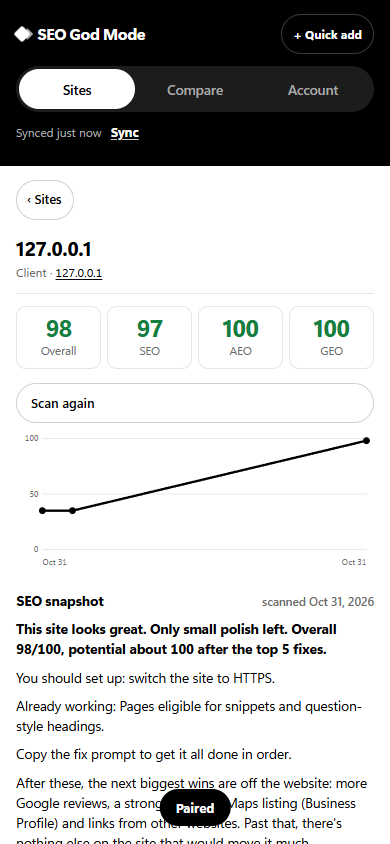
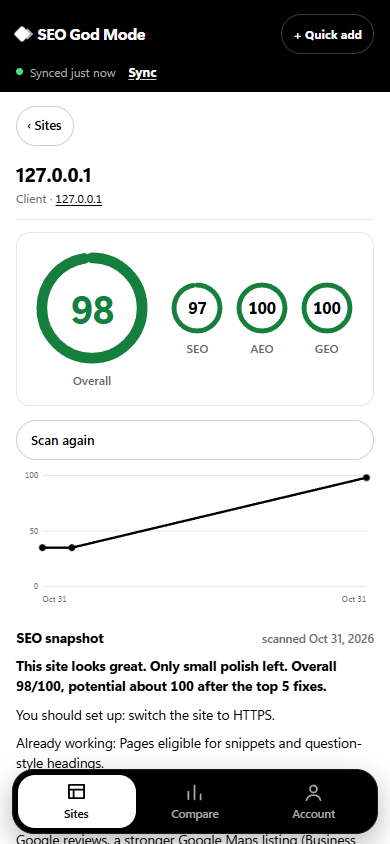
Phone app: new look and animations
Bottom tab bar with a sliding pill, a bold rate card, score rings that fill and count up, screens that
slide in by direction, self-drawing charts, an animated scan state, and sheet, toast and error motion.
Background syncs redraw without animating, and reduced-motion settings are respected.

diff --git a/mobile/src/app.js b/mobile/src/app.js
@@ -131,15 +131,16 @@ async function putData(keys) {
 
 // ------------------------------------------------------------------ UI helpers
 let toastT;
-function toast(t) { haptic("ok"); const el = $("toast"); el.textContent = t; el.classList.add("on"); clearTimeout(toastT); toastT = setTimeout(() => el.classList.remove("on"), 2200); }
-function notice(html) { if (html) haptic("warn"); const n = $("notice"); n.hidden = !html; n.innerHTML = html || ""; }
+function toast(t) { haptic("ok"); const el = $("toast"); el.textContent = t; el.classList.remove("on"); void el.offsetWidth; el.classList.add("on"); clearTimeout(toastT); toastT = setTimeout(() => el.classList.remove("on"), 2200); }
+function notice(html) { if (html) haptic("warn"); const n = $("notice"); n.hidden = !html; n.innerHTML = html || ""; n.classList.remove("shake"); if (html) { void n.offsetWidth; n.classList.add("shake"); } }
 async function copy(text, msg) { try { await navigator.clipboard.writeText(text); toast(msg); } catch { notice("Couldn't copy. Long-press the text below to copy it."); } }
 function paintStatus() {
   const el = $("status");
   if (!el || $("mode").hidden) return;
   const waiting = pendingCount();
-  if (S.local) { el.textContent = "Saved on this phone"; return; }
-  el.innerHTML = `${S.busy ? "Syncing…" : S.oldServer ? "Synced, except General sites (sync server needs its newest script)" : S.error === "notready" ? "Saved on this phone. Sync starts once the sync server is set up"
+  el.className = `url ${S.busy ? "busy" : S.local || !S.error && !S.oldServer ? "ok" : "wait"}`;
+  if (S.local) { el.innerHTML = `<i class="syncdot"></i>Saved on this phone`; return; }
+  el.innerHTML = `<i class="syncdot"></i>${S.busy ? "Syncing…" : S.oldServer ? "Synced, except General sites (sync server needs its newest script)" : S.error === "notready" ? "Saved on this phone. Sync starts once the sync server is set up"
     : S.error ? `Saved on this phone${waiting ? ` (${waiting} to send)` : ""}. Offline: ${esc(S.error)}` : S.lastSync ? `Synced ${ago(S.lastSync)}` : "Not synced yet"} <button class="linkish" id="syncbtn">Sync</button>`;
   $("syncbtn").onclick = () => pull({ quiet: false });
 }
@@ -254,7 +255,7 @@ async function scanSite(origin) {
   } catch (e) {
     if (!S.sites.has(origin)) S.lookup = { origin, scan: null };
     notice(esc(e.message || e));
-  } finally { S.scanning = null; render(); }
+  } finally { S.scanning = null; lastScreen = null; render(); }
 }
 
 function renderLookup(o) {
@@ -262,7 +263,7 @@ function renderLookup(o) {
   const failed = scan ? scan.results.filter((r) => r.ratio != null && r.ratio < 0.999 && r.cat !== "info").sort((a, b) => (b.gain || 0) - (a.gain || 0)) : [];
   $("view").innerHTML = `<nav class="crumb"><button class="back" id="back">‹ Sites</button></nav>
     <div class="hero"><div><b>${esc(hostOf(o))}</b><small>Not tracked · <a href="${esc(o)}" target="_blank" rel="noopener">${esc(o)}</a></small></div></div>
-    ${running ? `<div class="emptybox"><b>Rating the whole site…</b><p id="scanprog">${esc(hostOf(o))}: ${esc(S.scanning.text)}</p><p>Same crawl, checks and scores as the Chrome extension. Takes up to a minute.</p></div>`
+    ${running ? scanBox("Rating the whole site…", "scanprog", `${hostOf(o)}: ${S.scanning.text}`, "Same crawl, checks and scores as the Chrome extension. Takes up to a minute.")
       : scan ? `${scoreBoxes(scan.scores)}<h2 class="sec">SEO snapshot <small>${scan.pagesRated} pages, ${when(scan.page.scannedAt)}</small></h2><div class="summarytext">${summaryText(scan).split("\n").map((l) => `<p>${esc(l)}</p>`).join("")}</div>
         ${failed.length ? `<h2 class="sec">Top fixes <small>${failed.length}</small></h2><div class="list">${failed.slice(0, 6).map(fixRow).join("")}</div>` : ""}
         <div class="btns stack">${failed.length ? `<button id="copyfix">Copy fix prompt</button>` : ""}<button id="track" class="primary">Keep this site</button><button id="rescan">Scan again</button></div>`
@@ -282,16 +283,16 @@ function card(s) {
   const rivals = competitorsOf(s.origin).length;
   const of = s.competitorOf && S.sites.get(s.competitorOf);
   return `<div class="tcard"><button class="topen" data-open="${esc(s.origin)}"><div class="thead"><div><b>${esc(s.name)}</b><small>${last ? "Scanned " + when(last.t) : "Not scanned yet"} · ${s.keywords.length} keyword${s.keywords.length === 1 ? "" : "s"}${rivals ? ` · ${rivals} competitor${rivals === 1 ? "" : "s"}` : ""}${of ? ` · ${s.role === "general" ? "linked to" : "vs"} ${esc(of.name)}` : ""}</small></div>
-    <div class="tscore ${status(last?.overall)}">${last ? last.overall : "–"}${d ? `<i class="${d > 0 ? "up" : "down"}">${d > 0 ? "+" : ""}${d}</i>` : ""}</div></div>
+    <div class="tscore">${ring(last?.overall)}${d ? `<i class="${d > 0 ? "up" : "down"}">${d > 0 ? "+" : ""}${d}</i>` : ""}</div></div>
     ${h.length > 1 ? lineChart([{ name: "Overall", cls: "main", points: h.map((p) => ({ t: p.t, v: p.overall })) }], { height: 54, label: s.name + " score history" }) : ""}</button></div>`;
 }
 
 function renderSites() {
   const list = [...S.sites.values()];
   const groups = [["mine", "Your businesses"], ["client", "Clients you manage"], ["competitor", "Competitors"], ["general", "General"]];
-  $("view").innerHTML = `<form id="paste" class="field"><label for="pasteurl">Rate any website</label><div class="row"><input id="pasteurl" class="search big" inputmode="url" autocomplete="off" placeholder="Paste a link"><button class="primary">Rate it</button></div></form>
+  $("view").innerHTML = `<form id="paste" class="ratehero"><label for="pasteurl">Rate any website</label><small>SEO, AI answers and AI search, scored out of 100.</small><div class="row"><input id="pasteurl" class="search big" inputmode="url" autocomplete="off" placeholder="Paste a link"><button class="primary">Rate it</button></div></form>
     ${list.length ? groups.map(([role, title]) => { const xs = list.filter((s) => s.role === role); return xs.length ? `<h2 class="sec">${title} <small>${xs.length}</small></h2><div class="tlist">${xs.map(card).join("")}</div>` : ""; }).join("")
-      : `<div class="emptybox"><b>Nothing tracked yet</b><p>Paste a link above to rate any website, or press + Quick add to keep one here. Everything works on this phone, with no computer needed.</p></div>`}`;
+      : `<div class="emptybox"><div class="empty-art" aria-hidden="true"><span></span><span></span><span></span></div><b>Nothing tracked yet</b><p>Paste a link above to rate any website, or press + Quick add to keep one here. Everything works on this phone, with no computer needed.</p></div>`}`;
   $("paste").onsubmit = (e) => {
     e.preventDefault();
     let o; try { o = originOf($("pasteurl").value); } catch { return notice("That doesn't look like a website address. Try something like example.com."); }
@@ -305,9 +306,12 @@ function renderSites() {
 const bindOpen = () => document.querySelectorAll("[data-open]").forEach((b) => (b.onclick = () => openSite(b.dataset.open)));
 function openSite(o) { S.open = o; S.tab = "sites"; render(); scrollTo(0, 0); }
 
+/** A score ring: fills up and counts up when its screen opens. */
+const ring = (n, size = "") => `<span class="sring ${size} ${status(n)}"><svg viewBox="0 0 40 40" aria-hidden="true"><circle class="trk" cx="20" cy="20" r="17" pathLength="100"/>${n == null ? "" : `<circle class="val" cx="20" cy="20" r="17" pathLength="100" style="--v:${n}"/>`}</svg><b ${n == null ? "" : `data-n="${n}"`}>${n ?? "–"}</b></span>`;
 function scoreBoxes(p) {
-  return `<div class="scorebox">${[["Overall", p?.overall], ["SEO", p?.seo], ["AEO", p?.aeo], ["GEO", p?.geo]].map(([k, n]) => `<div class="${status(n)}"><b>${n ?? "–"}</b><span>${k}</span></div>`).join("")}</div>`;
+  return `<div class="scorebox"><div class="big">${ring(p?.overall, "lg")}<span>Overall</span></div><div class="three">${[["SEO", p?.seo], ["AEO", p?.aeo], ["GEO", p?.geo]].map(([k, n]) => `<div>${ring(n)}<span>${k}</span></div>`).join("")}</div></div>`;
 }
+const scanBox = (title, id, text, sub = "") => `<div class="scanbox"><span class="sweep" aria-hidden="true"></span><div><b>${title}</b><p id="${id}">${esc(text)}</p>${sub ? `<small>${sub}</small>` : ""}</div><i class="scanbar" aria-hidden="true"></i></div>`;
 
 function renderSite(o) {
   const s = S.sites.get(o);
@@ -322,7 +326,7 @@ function renderSite(o) {
   $("view").innerHTML = `<nav class="crumb"><button class="back" id="back">‹ Sites</button></nav>
     <div class="hero"><div><b>${esc(s.name)}</b><small>${ROLES[s.role]}${of ? ` ${s.role === "general" ? "linked to" : "of"} <button class="linkish" data-open="${esc(of.origin)}">${esc(of.name)}</button>` : ""} · <a href="${esc(o)}" target="_blank" rel="noopener">${esc(hostOf(o))}</a></small></div></div>
     ${scoreBoxes(p)}
-    ${running ? `<div class="emptybox"><b>Rating the whole site…</b><p id="scanprog">${esc(hostOf(o))}: ${esc(S.scanning.text)}</p></div>` : `<div class="btns stack"><button id="scannow"${scan ? "" : ` class="primary"`}>${scan ? "Scan again" : "Scan now"}</button></div>`}
+    ${running ? scanBox("Rating the whole site…", "scanprog", `${hostOf(o)}: ${S.scanning.text}`) : `<div class="btns stack"><button id="scannow"${scan ? "" : ` class="primary"`}>${scan ? "Scan again" : "Scan now"}</button></div>`}
     ${h.length > 1 ? lineChart([{ name: "Overall", cls: "main", points: h.map((x) => ({ t: x.t, v: x.overall })) }], { label: s.name + " score history" }) : ""}
     ${scan ? `<h2 class="sec">SEO snapshot <small>scanned ${when(scan.page.scannedAt)}</small></h2><div class="summarytext">${summaryText(scan).split("\n").map((l) => `<p>${esc(l)}</p>`).join("")}</div>
       ${failed.length ? `<h2 class="sec">Top fixes <small>${failed.length}</small></h2><div class="list">${failed.slice(0, 6).map(fixRow).join("")}</div>
@@ -330,7 +334,7 @@ function renderSite(o) {
       : running ? "" : `<div class="emptybox"><b>Not scanned yet</b><p>Press Scan now to rate the whole site on this phone. Scans from the Chrome extension show up here too.</p></div>`}
     <h2 class="sec">Keywords <small>${kws.length}</small></h2>
     ${kws.length ? `<table class="mini"><tr><th>Search</th><th>Position</th><th></th></tr>${kws.map((q) => { const r = latestPos(o, q); return `<tr><td>${esc(q)}${r ? `<small class="when">${when(r.t)}</small>` : ""}</td><td class="${r ? posStatus(r.pos) : ""}"><b class="posn">${r ? (r.pos ? "#" + r.pos : "not top " + (r.of || 10)) : "not checked"}</b></td><td><button class="tdel inline" data-rmkw="${esc(q)}" aria-label="Remove ${esc(q)}">×</button></td></tr>`; }).join("")}</table>
-      ${S.checking?.origin === o ? `<div class="emptybox"><b>Checking Google…</b><p id="checkprog">${esc(S.checking.text)}</p></div>`
+      ${S.checking?.origin === o ? scanBox("Checking Google…", "checkprog", S.checking.text)
         : canSearch() ? `<div class="btns stack"><button id="checkkw" class="primary">Check positions on Google</button></div><p class="unknowns">Opens Google on this phone and searches each keyword. If Google asks for a robot check, solve it there and the check carries on.</p>`
         : `<p class="unknowns">Checking positions needs the Android app.</p>`}` : ""}
     <form id="addkw" class="field"><label for="kwin">Add keywords (comma separated)</label><div class="row"><input id="kwin" class="search" placeholder="roof repair york pa"><button>Add</button></div></form>
@@ -400,7 +404,7 @@ async function checkKeywords(o) {
     }
     if (failed) notice(`Couldn't read Google's results for ${failed} keyword${failed === 1 ? "" : "s"}. Nothing was recorded for ${failed === 1 ? "it" : "them"}.`);
   } catch (e) { fail(e); }
-  finally { S.checking = null; render(); }
+  finally { S.checking = null; lastScreen = null; render(); }
 }
 
 /** A business and its competitors: latest scores, and the verdict when it's already ahead. */
@@ -475,10 +479,14 @@ async function renderAccount() {
 }
 
 // ------------------------------------------------------------------ quick add (bottom sheet)
+let sheetT;
+function openSheet() { clearTimeout(sheetT); const s = $("sheet"); s.classList.remove("closing"); s.hidden = false; }
+function closeSheet() { const s = $("sheet"); s.classList.add("closing"); clearTimeout(sheetT); sheetT = setTimeout(() => { s.hidden = true; s.classList.remove("closing"); }, reduced ? 0 : 190); }
+
 function quickAdd(pre = {}) {
   const w = { role: pre.role || null, of: pre.of ?? null, url: pre.url || "", fixed: !!pre.role };
   const sheet = $("sheet"), box = sheet.querySelector(".sheetbox");
-  const close = () => { sheet.hidden = true; document.removeEventListener("keydown", esc_); };
+  const close = () => { closeSheet(); document.removeEventListener("keydown", esc_); };
   const esc_ = (e) => e.key === "Escape" && close();
   document.addEventListener("keydown", esc_);
   sheet.onclick = (e) => { if (e.target === sheet) close(); };
@@ -516,20 +524,47 @@ function quickAdd(pre = {}) {
     };
   };
   draw();
-  sheet.hidden = false;
+  openSheet();
   box.querySelector("button, input")?.focus();
 }
 
 const fail = (e) => notice(esc(e.message || e));
 
 // ------------------------------------------------------------------ app
+// A new screen slides in, its parts arrive one after another, and rings count up. A background sync that redraws the
+// same screen animates nothing, so the page never flickers.
+const reduced = matchMedia("(prefers-reduced-motion: reduce)").matches;
+const TABS = ["sites", "compare", "account"];
+let lastScreen = null, lastDepth = 0;
+function countUp(el) {
+  const to = +el.dataset.n, t0 = performance.now(), dur = 950;
+  const step = (t) => { if (!el.isConnected) return; const k = Math.min(1, (t - t0) / dur); el.textContent = Math.round(to * (1 - Math.pow(1 - k, 3))); if (k < 1) requestAnimationFrame(step); };
+  el.textContent = 0; requestAnimationFrame(step);
+}
+function animateScreen() {
+  const v = $("view"), depth = TABS.indexOf(S.tab) * 2 + (S.open ? 1 : 0), screen = S.tab + "|" + (S.open || "");
+  if (screen === lastScreen) return v.classList.remove("enter", "back");
+  const back = lastScreen !== null && depth < lastDepth, first = lastScreen === null;
+  lastScreen = screen; lastDepth = depth;
+  v.classList.remove("enter", "back");
+  [...v.children].forEach((c, i) => c.style.setProperty("--i", Math.min(i, 10)));
+  v.querySelectorAll(".tlist > *, .list > *").forEach((c, i) => c.style.setProperty("--j", Math.min(i, 10)));
+  v.querySelectorAll(".chart .ln.main").forEach((l) => l.setAttribute("pathLength", "1"));
+  if (reduced) return;
+  void v.offsetWidth;
+  v.classList.add("enter");
+  if (back && !first) v.classList.add("back");
+  v.querySelectorAll("[data-n]").forEach(countUp);
+}
 function render() {
   if ($("mode").hidden) return;
   document.querySelectorAll("#mode button").forEach((b) => b.setAttribute("aria-pressed", String(b.dataset.tab === S.tab)));
+  $("pill").style.setProperty("--tab", TABS.indexOf(S.tab));
   if (S.tab === "compare") renderCompare();
-  else if (S.tab === "account") renderAccount();
+  else if (S.tab === "account") return void renderAccount().then(animateScreen);
   else if (S.open) renderSite(S.open);
   else renderSites();
+  animateScreen();
 }
 
 let poll;
@@ -563,9 +598,9 @@ async function checkUpdate(asked = false) {
     <p class="unknowns">Update now downloads it in your browser. Open the download and tap Install; your sites stay on the phone.</p>
     <div class="btns stack"><button id="updnow" class="primary">Update now</button><button id="updlater">Later</button></div>`;
   sheet.onclick = null;
-  sheet.hidden = false;
-  $("updnow").onclick = () => { sheet.hidden = true; location.href = u.apk; };
-  $("updlater").onclick = () => { localStorage.setItem("sgm.skipBuild", String(u.build)); sheet.hidden = true; };
+  openSheet();
+  $("updnow").onclick = () => { closeSheet(); location.href = u.apk; };
+  $("updlater").onclick = () => { localStorage.setItem("sgm.skipBuild", String(u.build)); closeSheet(); };
 }
 $("quickadd").onclick = () => quickAdd();
 document.addEventListener("visibilitychange", () => { if (document.visibilityState !== "visible") return; checkUpdate(); if (!$("mode").hidden) pull(); });

diff --git a/mobile/src/app.css b/mobile/src/app.css
@@ -2,20 +2,14 @@
 html { -webkit-tap-highlight-color: transparent; }
 body { min-height: 100vh; padding-bottom: env(safe-area-inset-bottom); }
 header { padding-top: calc(14px + env(safe-area-inset-top)); }
-.mode.three { grid-template-columns: repeat(3, 1fr); }
-.mode button { padding: 9px 4px; font-size: 13.5px; }
 button, .btn { min-height: 40px; }
-.view { padding: 16px 16px 40px; }
+.view { padding: 16px 16px 110px; animation: none; overflow-x: clip; }
 h1.q { font: 800 24px/1.15 var(--display); letter-spacing: -.02em; margin: 6px 0 4px; }
 .row { display: flex; gap: 8px; }
 .row .search { flex: 1; }
 .summarytext p { margin: 0 0 8px; font-size: 13.5px; }
 .summarytext p:first-child { font-weight: 650; }
 
-.scorebox { display: grid; grid-template-columns: repeat(4, 1fr); gap: 6px; margin: 4px 0 8px; }
-.scorebox div { border: 1px solid var(--rule); border-radius: var(--r-sm); padding: 8px 6px; text-align: center; background: var(--panel); }
-.scorebox b { display: block; font: 800 24px/1 var(--display); letter-spacing: -.03em; color: var(--st, var(--ink)); }
-.scorebox span { font-size: 11.5px; color: var(--muted); }
 
 table.mini td.s-pass, table.mini td.s-part, table.mini td.s-fail, .posn.s-pass, .posn.s-part, .posn.s-fail { color: var(--st); }
 .posn { font-weight: 800; }
@@ -24,12 +18,105 @@ td small.when { display: block; color: var(--muted); font-size: 11px; }
 .scrollx { overflow-x: auto; }
 
 /* Quick add: a sheet from the bottom of the screen */
-.sheet { position: fixed; inset: 0; z-index: 20; background: rgba(0, 0, 0, .45); display: flex; align-items: flex-end; }
+.sheet { position: fixed; inset: 0; z-index: 20; background: rgba(0, 0, 0, .45); display: flex; align-items: flex-end; animation: fade .2s linear; }
 .sheetbox { width: 100%; max-height: 88vh; overflow: auto; background: var(--paper); color: var(--ink); border-radius: 18px 18px 0 0;
-  padding: 16px 16px calc(20px + env(safe-area-inset-bottom)); animation: up .22s var(--ease); }
+  padding: 16px 16px calc(20px + env(safe-area-inset-bottom)); animation: up .34s var(--spring); }
 .sheethead { display: flex; justify-content: space-between; align-items: center; }
 .sheethead .q { margin: 0; font: 800 19px/1.2 var(--display); }
-@keyframes up { from { transform: translateY(40px); opacity: .4; } }
-@media (prefers-reduced-motion: reduce) { .sheetbox { animation: none; } }
 .synccode { font: 800 22px/1.25 ui-monospace, "Roboto Mono", monospace; letter-spacing: .04em; margin: 4px 0 12px !important; user-select: all; overflow-wrap: anywhere; }
 #status .linkish { color: var(--head-ink); margin-left: 6px; min-height: 0; }
+
+/* ---- Look and motion. Motion always answers something: a new screen, a score arriving, a press, a sync. */
+:root { --spring: cubic-bezier(.2, 1.25, .35, 1); }
+header { padding-bottom: 2px; }
+header .url { margin: 8px 0 8px; display: flex; align-items: center; gap: 7px; }
+.syncdot { width: 7px; height: 7px; border-radius: 50%; flex: none; background: var(--head-muted); }
+.url.ok .syncdot { background: #4ade80; }
+.url.wait .syncdot { background: #facc15; }
+.url.busy .syncdot { background: var(--head-ink); animation: beat .9s ease-in-out infinite; }
+@keyframes beat { 50% { transform: scale(1.7); opacity: .45; } }
+
+/* Tabs at the bottom, in thumb reach, with a pill that slides between them */
+#mode { position: fixed; z-index: 10; left: 12px; right: 12px; bottom: calc(10px + env(safe-area-inset-bottom)); margin: 0; padding: 5px; display: grid; grid-template-columns: repeat(3, 1fr);
+  background: var(--head); border: 1px solid var(--head-wash); border-radius: 22px; box-shadow: 0 10px 28px rgba(0, 0, 0, .28); animation: navin .5s var(--spring); }
+#mode[hidden] { display: none; }
+@keyframes navin { from { transform: translateY(90px); } }
+#pill { position: absolute; top: 5px; bottom: 5px; left: 5px; width: calc((100% - 10px) / 3); border-radius: 17px; background: var(--head-ink); transform: translateX(calc(var(--tab, 0) * 100%)); transition: transform .38s var(--spring); }
+#mode button { position: relative; display: grid; justify-items: center; gap: 2px; padding: 7px 2px 6px; min-height: 52px; font-size: 11.5px; color: var(--head-muted); background: transparent; border: 0; border-radius: 17px; transition: color .2s, transform .15s; }
+#mode button[aria-pressed="true"] { background: transparent; color: var(--head); }
+#mode svg { width: 21px; height: 21px; fill: none; stroke: currentColor; stroke-width: 1.9; stroke-linecap: round; stroke-linejoin: round; transition: transform .35s var(--spring); }
+#mode button[aria-pressed="true"] svg { transform: translateY(-1px) scale(1.08); }
+
+/* Presses */
+button, .btn { transition: border-color .15s, background .15s, color .15s, transform .22s var(--spring); }
+button:active, .btn:active { transform: scale(.95); transition-duration: .06s; }
+.tcard { transition: transform .22s var(--spring), border-color .15s; }
+.tcard:active { transform: scale(.98); }
+.tile:active { transform: scale(.98); }
+.tile.on { animation: pick .3s var(--spring); }
+@keyframes pick { from { transform: scale(.96); } }
+
+/* A screen arriving */
+#view.enter > * { animation: slidein .36s var(--ease) both; animation-delay: calc(var(--i, 0) * 38ms); }
+#view.enter.back > * { animation-name: slideback; }
+@keyframes slidein { from { opacity: 0; transform: translateX(22px); } }
+@keyframes slideback { from { opacity: 0; transform: translateX(-22px); } }
+#view.enter .tlist > *, #view.enter .list > * { animation: rise .38s var(--ease) both; animation-delay: calc(120ms + var(--j, 0) * 45ms); }
+.notice.shake { animation: rise .25s var(--ease), shake .34s ease .05s; }
+@keyframes shake { 25% { transform: translateX(-5px); } 50% { transform: translateX(4px); } 75% { transform: translateX(-2px); } }
+@keyframes fade { from { opacity: 0; } }
+
+/* Score rings */
+.sring { position: relative; display: inline-grid; place-items: center; width: 54px; height: 54px; flex: none; }
+.sring.lg { width: 118px; height: 118px; }
+.sring svg { position: absolute; inset: 0; transform: rotate(-90deg); }
+.sring circle { fill: none; stroke-width: 3.6; }
+.sring .trk { stroke: var(--rule); }
+.sring .val { stroke: var(--st, var(--ink)); stroke-linecap: round; stroke-dasharray: var(--v) 100; }
+.sring b { font: 800 17px/1 var(--display); letter-spacing: -.03em; font-variant-numeric: tabular-nums; }
+.sring.lg b { font-size: 40px; color: var(--st, var(--ink)); }
+#view.enter .sring .val { animation: fillring 1s var(--ease) both .08s; }
+@keyframes fillring { from { stroke-dasharray: 0 100; } }
+.scorebox { display: grid; grid-template-columns: auto 1fr; gap: 16px; align-items: center; margin: 8px 0 12px; padding: 16px; background: var(--panel); border: 1px solid var(--rule); border-radius: var(--r-lg); }
+.scorebox .big { display: grid; justify-items: center; gap: 4px; }
+.scorebox .three { display: grid; grid-template-columns: repeat(3, 1fr); gap: 4px; }
+.scorebox .three > div { display: grid; justify-items: center; gap: 4px; }
+.scorebox span:not(.sring) { font-size: 12px; font-weight: 600; color: var(--muted); }
+.tscore { display: flex; align-items: center; gap: 2px; }
+
+/* The one loud thing: rating a website */
+.ratehero { display: grid; gap: 3px; margin: 2px 0 14px; padding: 18px 16px 16px; color: var(--paper); background: var(--ink); border-radius: 20px; position: relative; overflow: hidden; }
+.ratehero label { font: 800 23px/1.15 var(--display); letter-spacing: -.025em; }
+.ratehero small { font-size: 12.5px; opacity: .72; margin-bottom: 11px; }
+.ratehero .search { background: var(--paper); color: var(--ink); border-color: transparent; min-width: 0; }
+.ratehero .search:focus { box-shadow: 0 0 0 2px var(--faint); }
+.ratehero button.primary { background: var(--paper); color: var(--ink); border-color: var(--paper); flex: none; padding-inline: 16px; }
+.ratehero::after { content: ""; position: absolute; inset: 0; pointer-events: none; background: linear-gradient(105deg, transparent 40%, color-mix(in srgb, var(--paper) 20%, transparent) 50%, transparent 60%); transform: translateX(-100%); }
+#view.enter .ratehero::after { animation: sheen 1.1s var(--ease) .25s; }
+@keyframes sheen { to { transform: translateX(100%); } }
+
+/* Long work: a sweeping ring, a moving bar and the step it's on */
+.scanbox { position: relative; overflow: hidden; display: grid; grid-template-columns: auto 1fr; gap: 14px; align-items: center; margin: 10px 0; padding: 16px 16px 20px; background: var(--panel); border: 1px solid var(--rule); border-radius: var(--r-lg); }
+.scanbox b { font: 750 15px/1.3 var(--display); }
+.scanbox p { margin: 2px 0 0; font-size: 12.5px; color: var(--muted); overflow-wrap: anywhere; }
+.scanbox small { display: block; margin-top: 4px; font-size: 11.5px; color: var(--faint); }
+.sweep { width: 42px; height: 42px; border-radius: 50%; border: 4px solid var(--rule); border-top-color: var(--ink); animation: spin .85s linear infinite; }
+@keyframes spin { to { transform: rotate(360deg); } }
+.scanbar { position: absolute; left: 0; right: 0; bottom: 0; height: 3px; background: var(--wash); }
+.scanbar::after { content: ""; position: absolute; inset: 0; width: 34%; background: var(--ink); animation: slide 1.15s var(--ease) infinite; }
+
+/* Chart draws itself */
+.chart .ln.main { stroke-dasharray: 1; }
+#view.enter .chart .ln.main { animation: draw 1.1s var(--ease) both .15s; }
+@keyframes draw { from { stroke-dashoffset: 1; } to { stroke-dashoffset: 0; } }
+#view.enter .chart .pt { animation: fade .4s linear both .9s; }
+
+/* Sheet leaves too, and the toast springs */
+.sheet.closing { animation: fade .19s linear reverse both; pointer-events: none; }
+.sheet.closing .sheetbox { animation: up .19s ease-in reverse both; }
+@keyframes up { from { transform: translateY(100%); } }
+.toast { bottom: calc(88px + env(safe-area-inset-bottom)); max-width: calc(100vw - 32px); z-index: 30; transition: opacity .18s, transform .38s var(--spring); }
+.factor, .tcard, .upd, .summarytext { border-radius: var(--r-lg); }
+.empty-art { height: 40px; margin-bottom: 10px; }
+.emptybox { text-align: left; }
+@media (prefers-reduced-motion: reduce) { #mode, #view.enter > *, .sheet, .sheetbox { animation: none !important; } }

diff --git a/mobile/src/index.html b/mobile/src/index.html
@@ -16,13 +16,14 @@
       <div class="brand"><span class="mark" aria-hidden="true"></span>SEO God Mode</div>
       <button id="quickadd" class="quickadd" hidden>+ Quick add</button>
     </div>
-    <nav id="mode" class="mode three" aria-label="Sections" hidden>
-      <button data-tab="sites" aria-pressed="true">Sites</button><button data-tab="compare" aria-pressed="false">Compare</button><button data-tab="account" aria-pressed="false">Account</button>
-    </nav>
     <div id="status" class="url"></div>
   </header>
   <div id="notice" class="notice" role="status" hidden></div>
   <main id="view" class="view"></main>
+  <nav id="mode" class="mode three" aria-label="Sections" hidden>
+    <span id="pill" aria-hidden="true"></span>
+    <button data-tab="sites" aria-pressed="true"><svg viewBox="0 0 24 24" aria-hidden="true"><path d="M4 5h16v14H4zM4 10h16M9 10v9"/></svg>Sites</button><button data-tab="compare" aria-pressed="false"><svg viewBox="0 0 24 24" aria-hidden="true"><path d="M5 20V11M12 20V4M19 20v-6"/></svg>Compare</button><button data-tab="account" aria-pressed="false"><svg viewBox="0 0 24 24" aria-hidden="true"><path d="M12 12a4 4 0 1 0 0-8 4 4 0 0 0 0 8zM4 21c1-4.5 4-6 8-6s7 1.500 8 6"/></svg>Account</button>
+  </nav>
   <div id="sheet" class="sheet" hidden><div class="sheetbox" role="dialog" aria-modal="true" aria-labelledby="sheettitle"></div></div>
   <div id="toast" class="toast" role="status"></div>
 </body>

diff --git a/CHANGELOG.md b/CHANGELOG.md
@@ -1,5 +1,10 @@
 # Changelog
 
+## 2.24.1 (2026-10-31): app: new look and animations
+
+- **Bottom tab bar** with a sliding pill, in thumb reach, and a bold **Rate any website** card.
+- **Animations:** screens slide in by direction and their parts arrive in turn; score rings fill and count up; charts draw themselves; a sweeping ring and moving bar show long scans; the sheet and toast spring; errors shake; a dot pulses while syncing. A background sync never re-animates the screen, and the phone's reduced-motion setting turns motion off.
+
 ## 2.24.0 (2026-10-31): extension 1.19 and app: fully usable on the phone alone, General sites
 
 - **No computer, account or code needed:** the app opens straight to rating and keeping sites. Sync is optional, in **Account**. With sync off, nothing leaves the phone except requests to the sites and searches you ask for.
